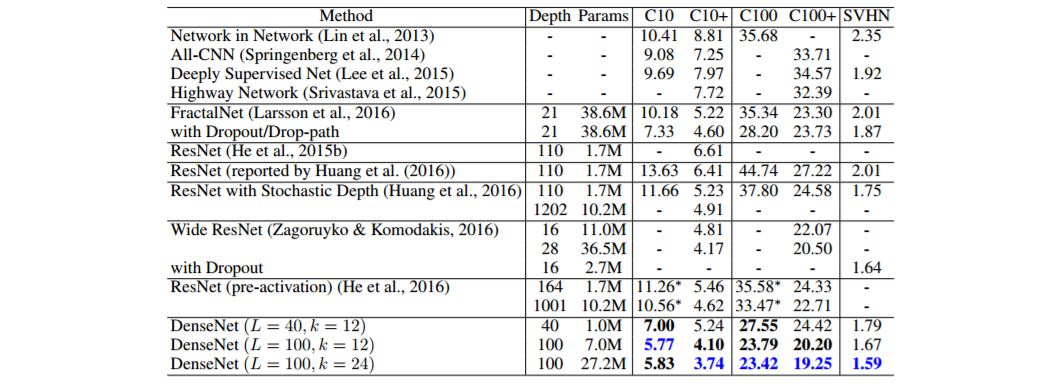
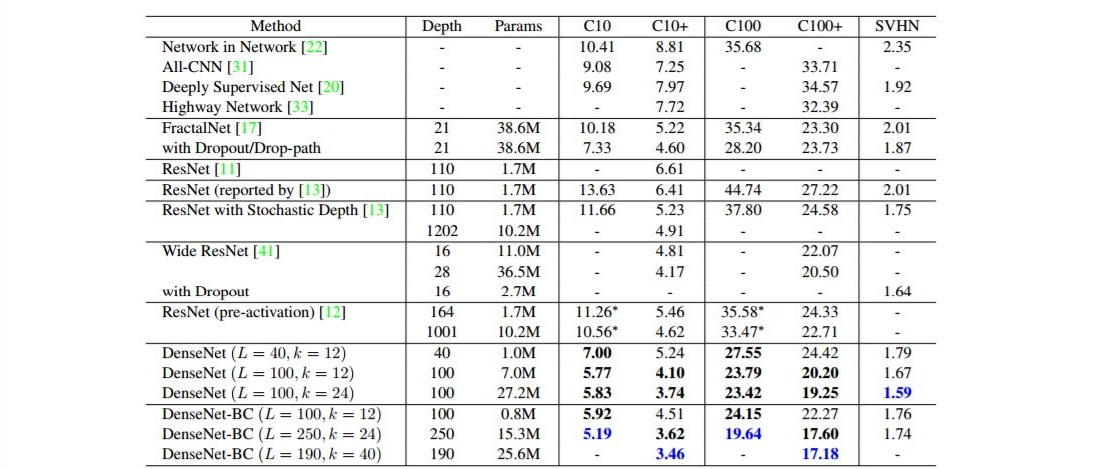
Added docs about DenseNet-BC models

Changed region(s): [[0.1242, 0.0, 0.8382, 1.0]]

diff --git a/cifar10.py b/cifar10.py
@@ -40,28 +40,30 @@ print("Building model...")
 Y_train = np_utils.to_categorical(trainY, nb_classes)
 Y_test = np_utils.to_categorical(testY, nb_classes)
 
-generator = ImageDataGenerator(rotation_range=10,
+generator = ImageDataGenerator(featurewise_center=True,
+                               featurewise_std_normalization=True,
+                               rotation_range=10,
                                width_shift_range=5./32,
                                height_shift_range=5./32)
 
 generator.fit(trainX, seed=0, augment=True)
 
+test_generator = ImageDataGenerator(featurewise_center=True,
+                                    featurewise_std_normalization=True)
+
+test_generator.fit(testX, augment=True, seed=0)
+
 # Load model
 model.load_weights("weights/DenseNet-40-12-CIFAR10.h5")
 print("Model loaded.")
 
-# model.fit_generator(generator.flow(trainX, Y_train, batch_size=batch_size), samples_per_epoch=len(trainX), nb_epoch=nb_epoch,
-#                    callbacks=[ModelCheckpoint("weights/DenseNet-40-12-CIFAR10.h5", monitor="val_acc", save_best_only=True,
-#                                               save_weights_only=True)],
-#                    validation_data=(testX, Y_test),
-#                    nb_val_samples=testX.shape[0], verbose=1)
+model.fit_generator(generator.flow(trainX, Y_train, batch_size=batch_size), samples_per_epoch=len(trainX), nb_epoch=nb_epoch,
+                   callbacks=[ModelCheckpoint("weights/DenseNet-40-12-CIFAR10.h5", monitor="val_acc", save_best_only=True,
+                                              save_weights_only=True)],
+                   validation_data=test_generator.flow(testX, testY, batch_size=batch_size),
+                   nb_val_samples=testX.shape[0], verbose=1)
 
-yPreds = model.predict(testX)
-yPred = np.argmax(yPreds, axis=1)
-yTrue = testY
-
-accuracy = metrics.accuracy_score(yTrue, yPred) * 100
-error = 100 - accuracy
-print("Accuracy : ", accuracy)
-print("Error : ", error)
+scores = model.evaluate_generator(test_generator.flow(testX, testY, nb_epoch), testX.shape[0])
+print("Accuracy = %f" % (100 * scores[1]))
+print("Error = %f" % (100 - 100 * scores[1]))
 

diff --git a/densenet.py b/densenet.py
@@ -18,7 +18,7 @@ def conv_block(ip, nb_filter, bottleneck=False, dropout_rate=None, weight_decay=
         dropout_rate: dropout rate
         weight_decay: weight decay factor
 
-    Returns: keras tensor with batch_norm, relu and convolution2d added
+    Returns: keras tensor with batch_norm, relu and convolution2d added (optional bottleneck)
 
     '''
 
@@ -113,9 +113,9 @@ def create_dense_net(nb_classes, img_dim, depth=40, nb_dense_block=3, growth_rat
         nb_classes: number of classes
         img_dim: tuple of shape (channels, rows, columns) or (rows, columns, channels)
         depth: number or layers
-        nb_dense_block: number of dense blocks to add to end
-        growth_rate: number of filters to add
-        nb_filter: number of filters
+        nb_dense_block: number of dense blocks to add to end (generally = 3)
+        growth_rate: number of filters to add per dense block
+        nb_filter: initial number of filters. Default -1 indicates initial number of filters is 2 * growth_rate
         bottleneck: add bottleneck blocks
         reduction: reduction factor of transition blocks. Note : reduction value is inverted to compute compression
         dropout_rate: dropout rate
@@ -184,6 +184,6 @@ def create_dense_net(nb_classes, img_dim, depth=40, nb_dense_block=3, growth_rat
 
 
 if __name__ == '__main__':
-    model = create_dense_net(10, (3, 32, 32), depth=100, bottleneck=True, reduction=0.5)
+    model = create_dense_net(nb_classes=10, img_dim=(3, 32, 32), depth=40, growth_rate=12, bottleneck=True, reduction=0.5)
 
     #model.summary()

diff --git a/README.md b/README.md
@@ -1,5 +1,8 @@
 # Dense Net in Keras
-DenseNet implementation of the paper [Densely Connected Convolutional Networks](https://arxiv.org/pdf/1608.06993v1.pdf) in Keras
+DenseNet implementation of the paper [Densely Connected Convolutional Networks](https://arxiv.org/pdf/1608.06993v2.pdf) in Keras
+
+Now supports the more efficient DenseNet-BC (DenseNet-Bottleneck-Compressed) networks. Using the DenseNet-BC-190-40 model, 
+it obtaines state of the art performance on CIFAR-10 and CIFAR-100
 
 # Architecture
 DenseNet is an extention to Wide Residual Networks. According to the paper: <br>
@@ -16,6 +19,14 @@ It features several improvements such as :
 2. Growth Rate parameter Which dictates how fast the number of features increase as the network becomes deeper.
 3. Consecutive functions : BatchNorm - Relu - Conv which is from the Wide ResNet paper and improvement from the ResNet paper.
 
+The Bottleneck - Compressed DenseNets offer further performance benefits, such as reduced number of parameters, with similar or better performance. 
+
+- Take into consideration the DenseNet-100-12 model, with nearly 7 million parameters against with the DenseNet-BC-100-12, with just 0.8 million parameters.
+The BC model acheives 4.51 % error in comparison to the original models' 4.10 % error
+
+- The best original model, DenseNet-100-24 (27.2 million parameters) acheives 3.74 % error, whereas the DenseNet-BC-190-40 (25.6 million parameters) acheives
+3.46 % error which is a new state of the art performance on CIFAR-10.
+
 Dense Nets have an architecture which can be shown in the following image from the paper: <br>
 <img src="https://github.com/titu1994/DenseNet/blob/master/images/dense_net.JPG?raw=true">
 
@@ -25,7 +36,21 @@ The accuracy of DenseNet has been provided in the paper, beating all previous be
 
 # Usage
 
-Provided are the weights for CIFAR 10 with the DenseNet 40 model.
+Import the `densenet.py` script and use the `create_dense_net(...)` method to create a DenseNet model
+
+Examples : 
+
+```
+import densenet
+
+# 'th' dim-ordering or 'tf' dim-ordering
+image_dim = (3, 32, 32) or image_dim = (32, 32, 3)
+
+model = densenet.create_dense_net(nb_classes=10, img_dim=image_dim, depth=40, growth_rate=12, 
+								   bottleneck=True, reduction=0.5)
+```
+
+Weights for the DenseNet-40-12 model are provided which have been trained on CIFAR 10
 
 1. Run the cifar10.py script to train the DenseNet 40 model 
 2. Comment out the `model.fit_generator(...)` line and uncomment the `model.load_weights("weights/DenseNet-40-12-CIFAR10.h5")` line to test the classification accuracy.
